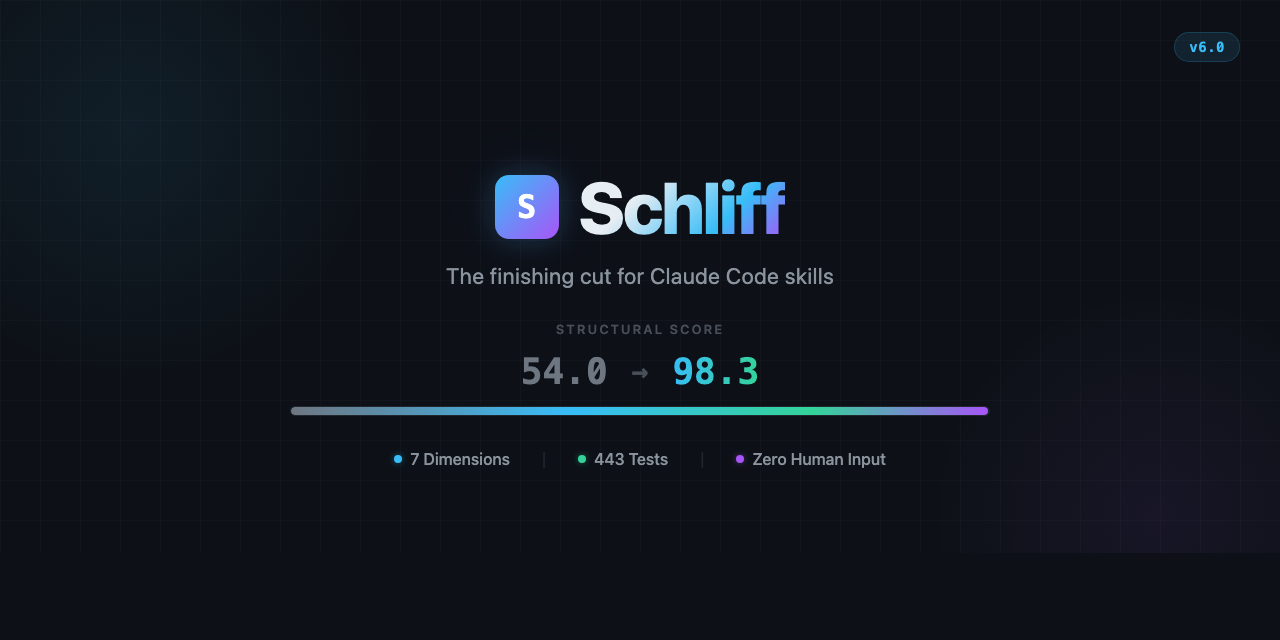
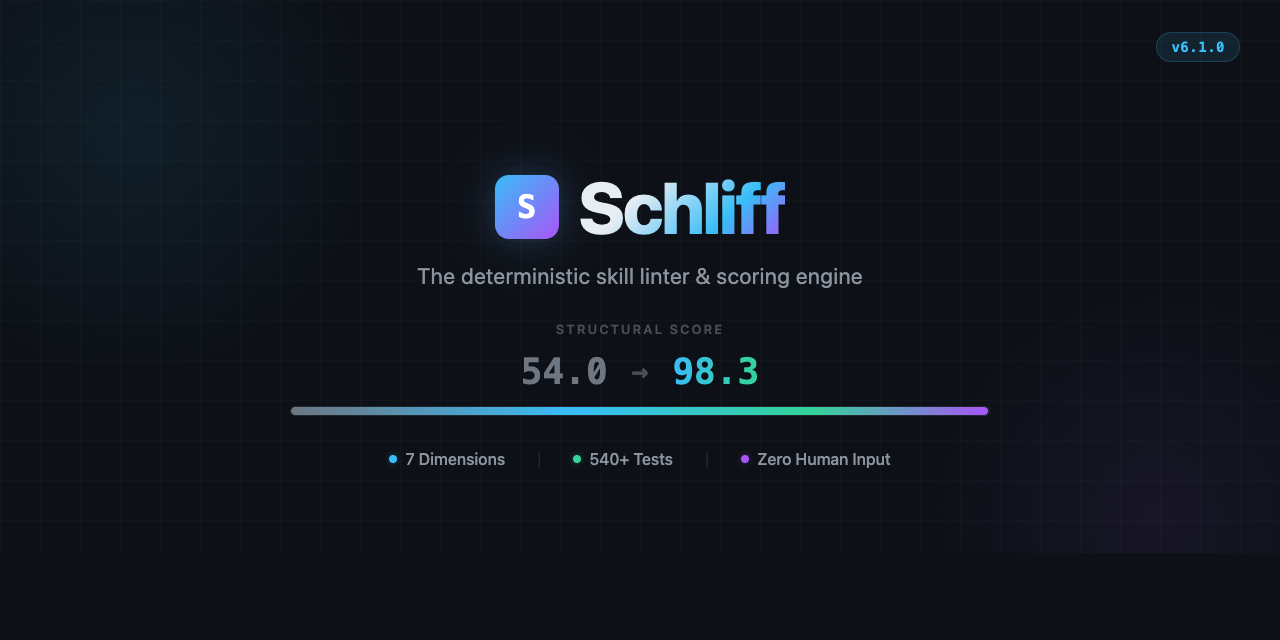
fix: update social preview, add demo GIF, correct self-score
- Social preview: v6.0 → v6.1.0, 443 → 540+ tests, new tagline
- Demo GIF: animated score output showing [D] vs [S] grade
- README: embed demo GIF, fix self-score 98.3 → 95.7 in Quality table

diff --git a/demo/social-preview.html b/demo/social-preview.html
@@ -246,7 +246,7 @@
     <div class="glow-tl"></div>
     <div class="glow-br"></div>
 
-    <span class="version">v6.0</span>
+    <span class="version">v6.1.0</span>
 
     <div class="content">
       <div class="title-row">
@@ -254,7 +254,7 @@
         <h1 class="title">Schliff</h1>
       </div>
 
-      <p class="subtitle">The finishing cut for Claude Code skills</p>
+      <p class="subtitle">The deterministic skill linter &amp; scoring engine</p>
 
       <div class="score-section">
         <span class="score-label">Structural Score</span>
@@ -271,7 +271,7 @@
       <div class="stats">
         <span class="stat"><span class="stat-dot dot-blue"></span>7 Dimensions</span>
         <span class="stat-sep">|</span>
-        <span class="stat"><span class="stat-dot dot-green"></span>443 Tests</span>
+        <span class="stat"><span class="stat-dot dot-green"></span>540+ Tests</span>
         <span class="stat-sep">|</span>
         <span class="stat"><span class="stat-dot dot-purple"></span>Zero Human Input</span>
       </div>

diff --git a/README.md b/README.md
@@ -5,6 +5,10 @@
 <h3 align="center">The deterministic skill linter & scoring engine for Claude Code</h3>
 
 <p align="center">
+  <img src="demo/schliff-demo.gif?v=3" alt="schliff score — bad skill [D] vs production skill [S]" width="720">
+</p>
+
+<p align="center">
   <i>schliff</i> (German) — the finishing cut. <i>"Den letzten Schliff geben"</i> = to give something its final polish.
 </p>
 
@@ -259,7 +263,7 @@ Schliff scores itself. Same engine, no exceptions.
 
 | Metric | Value |
 |--------|-------|
-| Structural Score | 98.3/100 [S] |
+| Structural Score | 95.7/100 [S] |
 | Tests | 540+ passing (unit + integration + benchmark + stress) |
 | Security fixes | 40 (shell injection, prompt injection, ReDoS, supply chain) |
 | Dependencies | Zero (Python 3.9+ stdlib only) |
